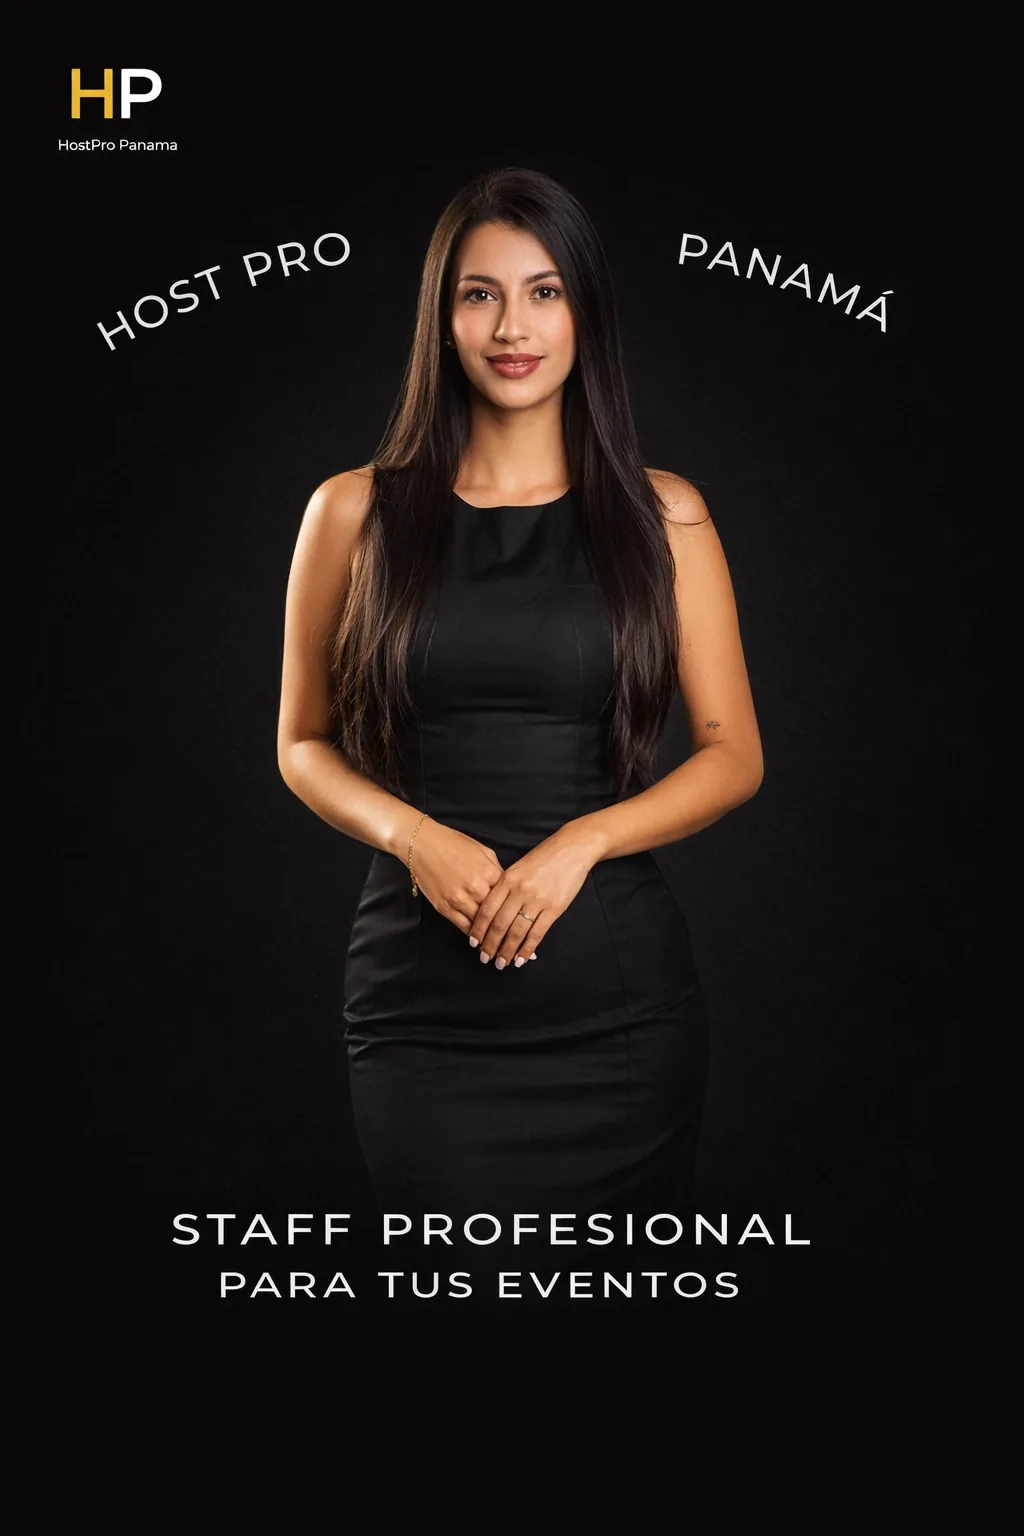
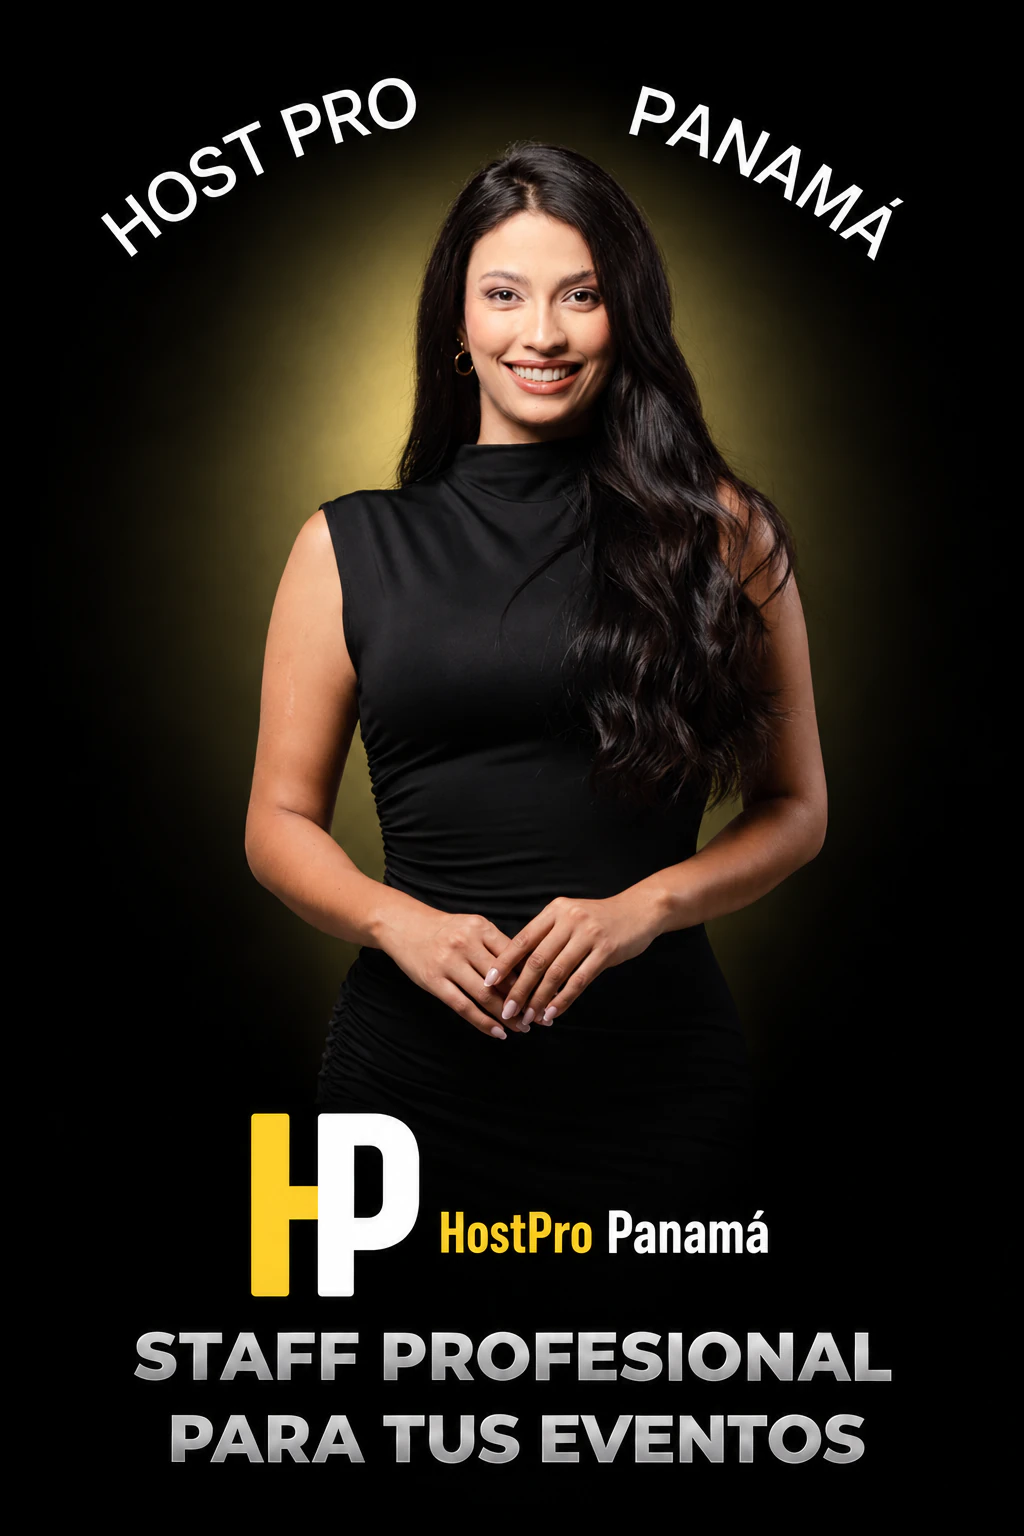
feat(talent): refresh Johana portfolio media

Changed region(s): [[0.0625, 0.0312, 0.875, 0.9688], [0.0938, 0.1875, 0.1875, 0.2188]]

diff --git a/src/constants/content.ts b/src/constants/content.ts
@@ -278,9 +278,17 @@ export const talent: TalentModel[] = [
       tiktok: "@johana.hoyos5",
     },
     gender: "mujer",
-    photo: "/talent/mujeres/johana-hoyos/johana-hoyos.webp",
+    photo: "/talent/mujeres/johana-hoyos/johana-hoyos.webp?v=host-talent-003",
     media: {
-      gallery: ["/talent/mujeres/johana-hoyos/johana-hoyos.webp"],
+      gallery: [
+        "/talent/mujeres/johana-hoyos/johana-01.webp",
+        "/talent/mujeres/johana-hoyos/johana-02.webp",
+        "/talent/mujeres/johana-hoyos/johana-03.webp",
+        "/talent/mujeres/johana-hoyos/johana-04.webp",
+        "/talent/mujeres/johana-hoyos/johana-05.webp",
+        "/talent/mujeres/johana-hoyos/johana-06.webp",
+        "/talent/mujeres/johana-hoyos/johana-07.webp",
+      ],
     },
   },
   {

diff --git a/next.config.ts b/next.config.ts
@@ -23,6 +23,10 @@ const nextConfig: NextConfig = {
         pathname: "/talent/mujeres/**",
         search: "?v=host-talent-001b",
       },
+      {
+        pathname: "/talent/mujeres/**",
+        search: "?v=host-talent-003",
+      },
     ],
     remotePatterns: [
       {
